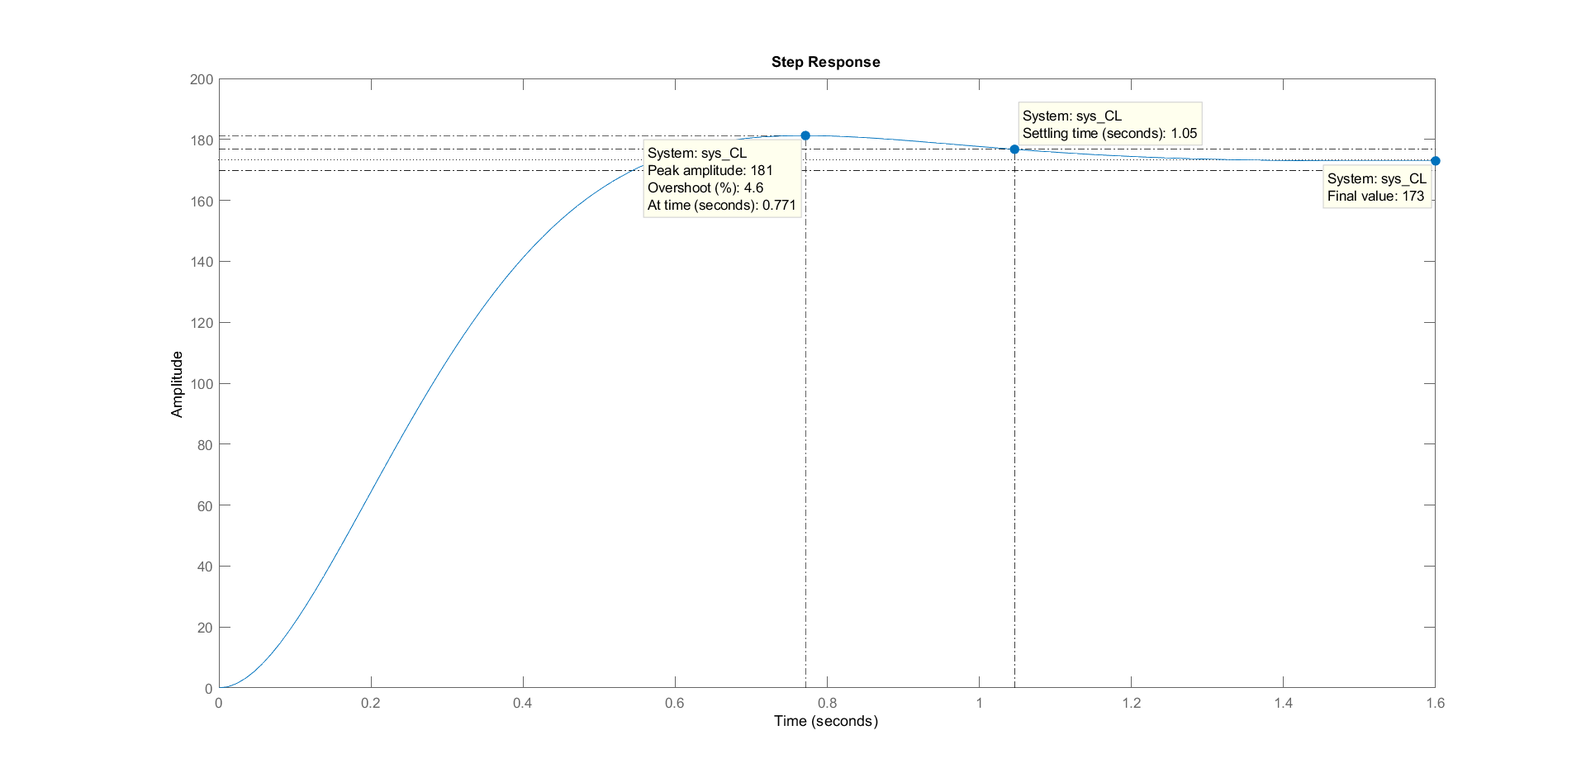
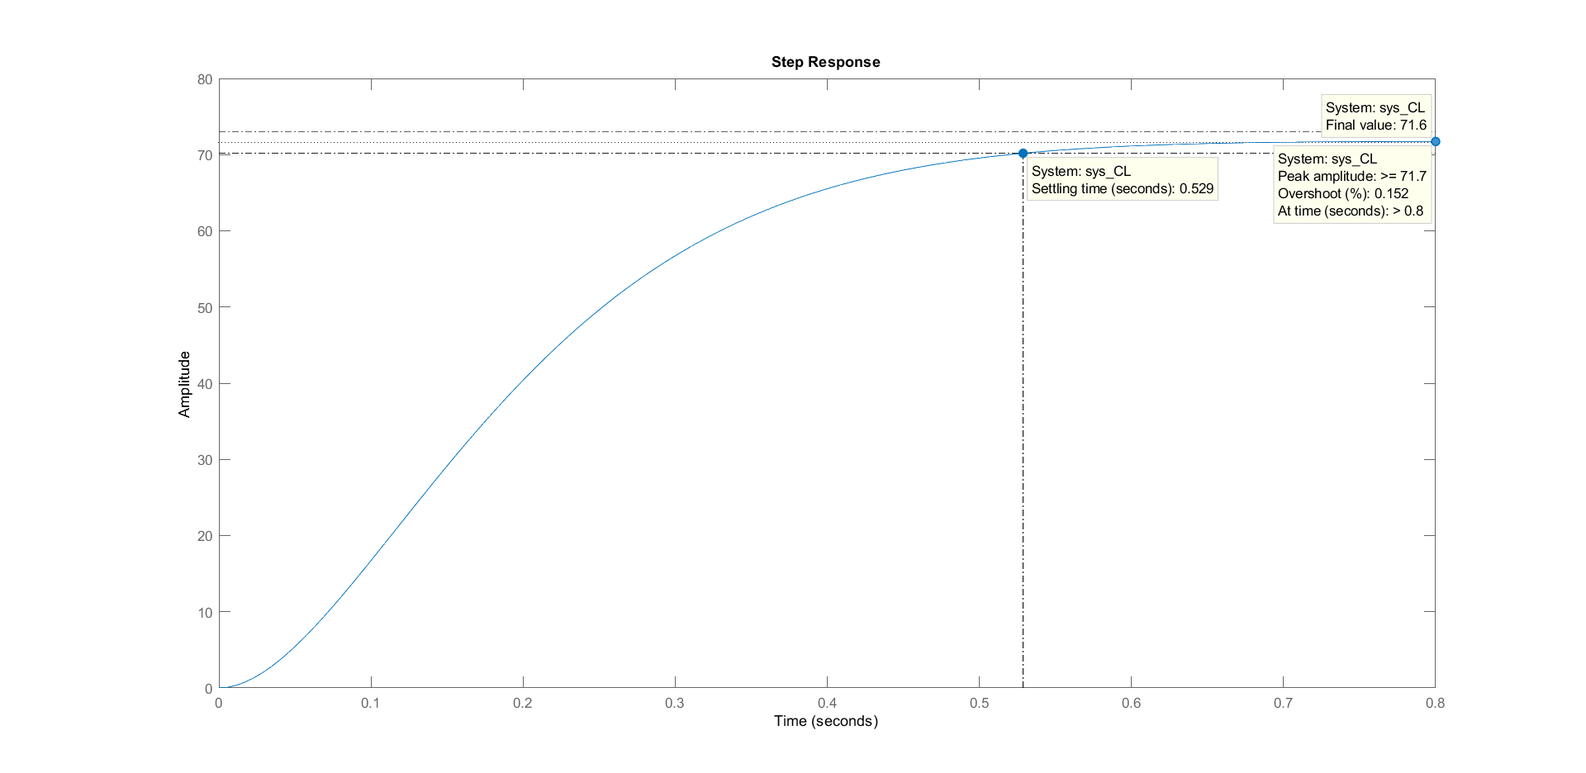
rettelser

diff --git a/Rapport/design.tex b/Rapport/design.tex
@@ -5,7 +5,7 @@
 \subsubsection{Systemidentification}
 
 For at kunne estimere dette system, er det første som skulle laves en overføringsfunktion, for den motor samt vippemekanisme som blev brugt til projektet. Her stødte vi på det første problem med systemet, da det ikke var stabilt. Vi blev derfor nød til at indsætte en form for fjedre, for at sikre at systemet var stabilt i en stationær position. Hertil blev der valgt at tilføje en elastik til hver side af bilen, for at opfylde ønsket om et stabilt stationær system. 
-Herefter blev målingen lavet for at identificere, en overføringsfunktion for motoren. Da dette system, både skal kunne gå mod højre og venstre, blev der påført et firkantsignal. Herunder ses, hvordan responsen \textit{beta} fra motorens tachometer ser ud ved påførelse af firkantsignalet.      
+Herefter blev målingen lavet for at identificere, en overføringsfunktion for motoren. Da dette system, både skal kunne gå mod højre og venstre, blev der påført et firkantsignal. Herunder i \autoref{fig:system_respons} ses, hvordan responsen \textit{beta} fra motorens tachometer ser ud ved påførelse af firkantsignalet.      
 
 
 \begin{figure}[H]
@@ -15,11 +15,15 @@ Herefter blev målingen lavet for at identificere, en overføringsfunktion for m
 	\label{fig:system_respons}
 \end{figure}
 
+\begin{lstlisting}[frame=single]
+data = iddata(Output,Step,'Ts',Ts);
+sys=tfest(data,2,0);%Find overfoeringsfunktion (2p,0z)
+\end{lstlisting}
 
 Overføringsfunktionen bliver genereret ud fra funktionen \textit{tfest()}, som estimerer en overføring ud fra inputtet vs outputtet \textit{beta}. Hertil får vi overføringsfunktionen:
 
 \begin{equation}
-Tf(s) = \frac{188.6}{s^2 + 188.6 s + 358.2}
+sys(s) = \frac{188.6}{s^2 + 188.6 s + 358.2}
 \end{equation}
     
 
@@ -29,8 +33,8 @@ For at opfylde vores krav til dynamikken, forsøges der at placeres dominerede p
 \begin{equation}
 \zeta = \frac{-\ln(OS/100)}{\sqrt{\pi^2+\ln^2(OS/100)}}
 \end{equation} 
-
-Dernæst findes båndbredden wn ud fra $ \zeta $ og valget om settling time (Ts) på følgede måde:
+Da vi egentlig ikke interesseret i overshoot og har et krav på max 5\% overshoot, så Sættes dampingrationen til 0.9 hvilket svarer til et overshoot på 0.15\% (næsten ingenting)
+Dernæst findes båndbredden wn for den karakteristiske ligning ud fra $ \zeta $ og valget om settling time (Ts = 0.5s) på følgede måde:
 
 \begin{equation}
 wn = \frac{4}{\zeta*Ts}
@@ -41,12 +45,18 @@ Til sidst kan den ønskede karakteristiske ligning (Gs) findes og ved:
 G(s) = \frac{wn^2}{s^2+2*\zeta*wn*s+wn^2}
 \end{equation}
 
-Ud fra G(s) findes isoleres polerne, som skal bruges til at opfylde kravene om settling time (Ts) og overshoot (OS). For vores krav ligger polerne  derfor i -4\textpm\ 4.08i. For at fjerne steady state error tilføjes en ekstra pol i 5-10 gange real delen af de dominerende poler. Denne ekstra pol på reel aksen fungere som integrator i kontrolloopet, som korrigerer steady state error'en, men den øger også ordenen af systemet.
+Ud fra G(s) isoleres polerne, som skal bruges til at opfylde kravene om settling time (Ts) og overshoot (OS).
+\begin{lstlisting}[frame=single]
+poles = pole(Gs);
+\end{lstlisting}
+
+
+For vores krav ligger polerne  derfor i -8 \textpm3.8746i. For at fjerne steady state error tilføjes en ekstra pol i 5-10 gange real delen af de dominerende poler. Denne ekstra pol på reel aksen fungere som integrator i kontrolloopet, som korrigerer steady state error'en, men den øger også ordenen af systemet. Polen er valgt 10 gange real delen (5 = minimum for ikke at ændre systemet dynamik betydeligt) af de dominerende poler og bliver derfor -80.
 
 
 \subsubsection{State space model}
 
-I dette projekt bliver systemet controller del repræsenteret på controller state space form, dette gøres for at kunne ændre på state vectorerne, som ændres vha. gainblokke (K), som bliver tilføjet til systemet. For at transformere transferfunktionen til en state space model, laves en state space tranformation i matlab. State space formlen giver følgende state space repræsentation
+I dette projekt bliver systemets repræsenteret på state space form. Dette gøres for at kunne ændre på state vectorerne, som ændres vha. gainblokke (K), som bliver tilbagekoblet til systemet. For at transformere overføringsfunktion for systemet til en state space model, laves en state space tranformation i matlab. State space formlen giver følgende state space repræsentation
 
 \begin{enumerate}
 	
@@ -90,10 +100,12 @@ Som vist tidligere, er der fundet nogle poler, som ønskes realiseret. Derfor in
 
 \begin{lstlisting}[frame=single]
 K = place(A,B,poles);
+
+% Define closed loop system
 AA = A-B*(K);
-sys=ss(AA,B,C,D);
+sys_CL=ss(AA,B,C,D);
 \end{lstlisting}
-Her er AA den nye state matrix som står for tilbagekoblingen med K værdierne for at placere de nye poler i Matlab. Resultatet af den tilbagekoblingen kan ses herunder. 
+Her er AA den nye state matrix som står for tilbagekoblingen med K værdierne for at placere de nye poler i Matlab. Resultatet af den tilbagekoblingen kan ses herunder i \autoref{fig:Kontinuer controller 1}. 
 
 \begin{figure}[H]
 	\centering
@@ -102,10 +114,12 @@ Her er AA den nye state matrix som står for tilbagekoblingen med K værdierne f
 	\label{fig:Kontinuer controller 1}
 \end{figure}
 
-
 Som det kan ses i \autoref{fig:Kontinuer controller 1}, passer dynamikken meget til kravene omkring overhoot og settling time men idet forstærkningen i systemet er for høj, kommer der  betydelig steady state error. Dette kan rettes til ved at tilføje den sidste pol som fjerner fejlen. Men først skal A og B matricen udvides så de kan indeholde den extra state, Dernæst skal alle tre poler placeres igen for at få tre nye K værdier, hvor den sidste er Ke, som ganges på integration polen i loopet. Dette kan ses herunder
 
 \begin{lstlisting}[frame=single]
+p3=10*real(poles(1)); % desired location for 3rd pole
+pp=[poles; p3];
+
 % Find feedback gains for the desired poles
 A_new=[A [0;0];-C 0]; % A matrix after adding an extra state
 B_new=[B;0]; % B matrix after adding an extra stat
@@ -121,7 +135,7 @@ C_CL=[C 0];
 sys_CL=ss(A_CL,B_CL,C_CL,D);
 \end{lstlisting}
 
-Her er A\_CL den nye state matrix som står for den udvidede tilbagekoblingen med alle K værdierne for at placere polerne som ønsket i Matlab. Resultatet af den udvidede tilbagekoblingen kan ses herunder. 
+Her er A\_CL den nye state matrix som står for den udvidet tilbagekoblingen med alle K værdierne for at placere polerne som ønsket i Matlab. Resultatet af den udvidede tilbagekoblingen kan ses herunder i \autoref{fig:Kontinuer controller 2}. 
 
 \begin{figure}[H]
 	\centering
@@ -135,14 +149,15 @@ Som det kan ses i \autoref{fig:Kontinuer controller 2}, passer responsen nu til 
 
 
 
-\subsection{Observer design}
+\subsubsection{Observer design}
+\label{sec:Observer design}
 Da systemet i praksis foregår på en LEGO motorblok, kan vi ikke hente states matrixen direkte, da x1 og x2 er en del  af systemet, ift ligningen for state space controller repræsentationen: 
 \begin{gather}
 \dot{x}=Ax+Bu \\
 y=Cx
 \end{gather}
 Derfor indsættes yderligere en blok i systemet, for at kunne observere ind og output, og på baggrund af dem, og den beregnede state matrix, beregnes en estimeret xhat, som skal bruges til tilbagekoblingen, som erstatning for states matrixen \\
-Observer formlen hedder:
+Observer ligningen hedder:
 
 
 \begin{gather}
@@ -150,14 +165,10 @@ Observer formlen hedder:
 \hat{y}=C\hat{x}
 \end{gather}
 
-Vha af mellemregninger, får vi formlen: 
-\begin{gather}
-\dot{\hat{x}}=(A+BK-LC)\hat{x}+Ly \\
-u=K\hat{x}
-\end{gather}
 
-Som er den formlen vi bruger til at lave vores observer.\\
-Først skal vi vælge observatørens forstærkning $ L $. Da vi ønsker at observerens dynamik skal være meget hurtigere end selve systemet, skal vi placere polerne mindst fem gange længere til venstre end systemets dominerende poler. Vi kan designe observerens forstærkning med følgende kommando uden at transformere vores state space respræsentation til observer canonical form
+Det er den formel vi bruger til at lave vores observer.\\
+
+Først skal vi vælge observatørens forstærkningsmatrice $ L $. Da vi ønsker at observerens dynamik skal være meget hurtigere end selve systemet, skal vi placere polerne mindst fem gange længere til venstre end systemets dominerende poler. Vi kan designe observerens forstærkning med følgende kommando uden at transformere vores state space respræsentation til observer canonical form
 
 \begin{lstlisting}[frame=single]
 %Valg af poler er polerne ganget med 5
@@ -166,9 +177,132 @@ poles_L = poles*5;
 L = place(A', C', poles_L)'; 
 \end{lstlisting}
 
-Derfor kan observatøren nu implementeres i Simulink og bruges til at hente state matricen ud fra outputtet fra gyroskopet. Dette beskrives senere under "Simulation"
+Derfor kan observatøren nu implementeres i Simulink og bruges til at hente et gæt på state matricen ud fra outputtet y (rho) fra gyroskopet og inputtet u til motor blokken. Denne implementering følger observer ligningen fra før og kan ses i diagrammet herunder i \autoref{fig:Simulink_observer_continues}
+
+\begin{figure}[H]
+	\centering
+	\includegraphics[width = 1\textwidth]{figur/Simulink_observer_continues}
+	\caption{Kontinuer observer}
+	\label{fig:Simulink_observer_continues}
+\end{figure}
+
 
 \subsection{Diskret controller design}
-For at kunne implementere systemet på en microcontroller - som på LEGO EV3, kan systemet med fordel transformeres til en diskret state space model. Dette kommer af at reguleringen skal foregå på et digitalt system, som sampler med en bestemt frekvens. Både overføringsfunktionen og state space repræsentationen bliver transformeret til diskrete værdier, det samme gøres ved vores poler, hvormed K værdierne ændres til de passende værdier. Alt dette gøres igennem matlab, hvor funktionen c2d bliver brugt.
+\subsubsection{Systemidentification}
+For at kunne implementere systemet på en microcontroller - som på LEGO EV3, kan systemet med fordel transformeres til en diskret state space model. Dette kommer af at reguleringen skal foregå på et digitalt system, som sampler med en bestemt frekvens. Både overføringsfunktionen og state space repræsentationen bliver transformeret til diskrete værdier, det samme gøres ved vores poler, hvormed K værdierne ændres til de passende værdier. Alt dette gøres igennem matlab, hvor funktionen c2d() bliver brugt. Fremgangs måden  er ellers den samme som ved den Kontinuer controller. 
+
+\begin{lstlisting}[frame=single]
+Ts = 0.01;
+sysD=c2d(sys,Ts,'zoh'); %samplingstiden er 0.01s
+\end{lstlisting}
+
+Først overføres den kontinuere overføringsfunktion fra før til det diskrete domæne ved hjælp af c2d() med samplingstiden 0.01s og "zoh" metoden til følgende resultat:
+
+\begin{equation}
+sysD(z) = \frac{0.008675 z^{-1} + + 0.007989 z^{-2}}{1 - 1.75 z^{-1} + 0.7813 z^{-2}}
+\end{equation}
+
+\subsubsection{Pol placeringskontrol}
+Idet den karakteristiske ligning (Gs) som bestemmer systemet dynamik allerede er bestemt i det kontinuere domæne  transformeres denne og så til det diskrete domæne G(z) med c2d() med samplingstiden 0.01s og denne gang "tustin" metoden for at få så præcist match i frekvensdomænet mellem den kontinuere og diskrete model af karakteristiske ligning. 
+
+\begin{lstlisting}[frame=single]
+Gz = c2d(Gs,Ts,'tustin');
+poles_z = pole(Gz);
+\end{lstlisting}
+
+Ud fra G(z) isoleres polerne, som skal bruges til at opfylde kravene om settling time (Ts) og overshoot (OS). For vores krav ligger polerne  derfor i 0.9224 \textpm0.0358i, som begge ligger inden for enheds cirklen og derfor er stabile.  
+Desværre stødte vi ind i problemer med at fjerne steady state error i det diskrete domæne, men det burde kunne fjerned ved at z-transformere den pol som ligger i -80 fra den kontinuere model til z-domænet. Dette problem er dog ikke blevet løst og derfor ses der bort fra steady state error i den diskrete model.
+
+\subsubsection{State space model}
+
+ For igen at kunne ændre på state vectorerne i den diskete model, som også ændres vha. gainblokke (Kd) tilbagekoblet til systemet, så skal den diskrete overføringsfunktio transformeres til en state space model. State space formlen giver følgende state space repræsentation for den  diskrete model.
+
+\begin{enumerate}
+	
+	\item
+	$
+	Ad = 
+	\begin{bmatrix}
+	
+	1.7497  & -0.7813\\
+	1.0000   &      0
+	\end{bmatrix}
+	$
+	\item
+	$
+	Bd = 
+	\begin{bmatrix}
+	
+	1\\
+	0
+	\end{bmatrix}
+	$    
+	
+	\item 
+	$
+	Cd = 
+	\begin{bmatrix}
+	
+	0.0087  &  0.0080
+	\end{bmatrix}
+	$    
+	\item
+	$
+	Dd = 
+	\begin{bmatrix}
+	
+	0  
+	\end{bmatrix}
+	$  
+\end{enumerate}      
+Polerne, som ønskes realiseret, virkeliggøre ved indsættes en Kd matrix, som skal placeres, i tilbagekoblingen for at opnå de ønskede poler i close-loopet. Her forsøges blot de to konjugerede poler realiseret for at se om kravene til dynamikken er opfyldt, det gøres således:
+
+\begin{lstlisting}[frame=single]
+Kd = place(Ad,Bd,poles_z);
+
+% Define closed loop system
+AAd = Ad-Bd*(Kd);
+sysD_CL=ss(AAd,Bd,Cd,Dd,Ts);
+\end{lstlisting}
+Her er AAd den nye state matrix som står for tilbagekoblingen med Kd værdierne for at placere de nye poler i Matlab. Resultatet af den tilbagekoblingen kan ses herunder i \autoref{fig:Diskret controller 1}. 
+
+\begin{figure}[H]
+	\centering
+	\includegraphics[width = 1\textwidth]{figur/Step_diskret_1}
+	\caption{Step respons (StepAmplitude = 30) af diskret controller uden steady state error korrektion}
+	\label{fig:Diskret controller 1}
+\end{figure}
+
+
+
+
+Som det kan ses i \autoref{fig:Diskret controller 1}, passer dynamikken meget til kravene omkring overhoot og settling time. Forstærkningen i systemet er dog for høj hvilket resulterer i betydelig steady state error. Dette kan rettes til som nævnt tidligere ved at tilføje den sidste pol som fjerner fejlen. Dette er dog ikke gjort ved den diskrete controller model. 
+
+\subsubsection{Observer design}
+Observer delen er den samme som i den kontinuere controller model og følger observer ligningen:
+\begin{gather}
+\dot{\hat{x}}=Ad\hat{x}+Bdu+Ld(y-\hat{y}) \\
+\hat{y}=Cd\hat{x}
+\end{gather}
+
+Først skal vi vælge observatørens forstærkningsmatrice $ Ld $. Da vi allerede har fundet observerens dynamik og tilhørende poler i den kontinuere controller så kan vi blot transformere disse poler til det diskrete domæne med c2d(). Vi kan designe observerens forstærkning med følgende kommando uden at transformere vores state space respræsentation til observer canonical form
+\begin{lstlisting}[frame=single]
+%valg af Ld poler 
+GLs = (1/(s-poles_L(1)))*(1/(s-poles_L(2)));
+GLz = c2d(GLs,Ts,'tustin');
+poles_Ld =pole(GLz);
+%beregning af Ld
+Ld = place(Ad', Cd', poles_Ld)';  
+\end{lstlisting}
+
+Derfor kan observatøren nu implementeres i Simulink og bruges til at hente et gæt på state matricen ud fra outputtet y (rho) fra gyroskopet og inputtet u til motor blokken. Denne implementering følger observer ligningen fra før og kan ses i diagrammet herunder i \autoref{fig:Simulink_observer_diskret}
+Den eneste ændring i forhold til den kontinuere observer er at integration blokken nu er udskiftets med en unit delay blok for at realisere den samplede state matrix   
+
+\begin{figure}[H]
+	\centering
+	\includegraphics[width = 1\textwidth]{figur/Simulink_observer_diskret}
+	\caption{Diskret observer}
+	\label{fig:Simulink_observer_diskret}
+\end{figure}
 
 

diff --git a/Rapport/simulation.tex b/Rapport/simulation.tex
@@ -3,38 +3,41 @@ For at teste den kontinuere controller's respons modelleres systemet ud fra stat
 
 \begin{figure}[H]
 	\centering
-	\includegraphics[width = 0.9\textwidth]{figur/Simulink_blokdiagram_1}
+	\includegraphics[width = 1\textwidth]{figur/Simulink_blokdiagram_1}
 	\caption{Blok diagram for den kontinuere controller uden observer}
 	\label{fig:Simulink_blokdiagram_1}
 \end{figure}
 
 State matricen hentes direkte fra modellen ligesom i Matlab. Delay blokken med 2 unit delay skyldes at gerne vi simulere at gyroskopet på udgangen bruger 1 delay på at sample og og 1 delay på at integrere den samplede værdi.
-Ved at sende et step med amplituden 30 ind som reference signal forventer vi derfor at kunne måle en værdi på 30 på outputtet efter cirka 1 sekund efter steppet. Dette kan ses i scopet 
+Ved at sende et step med amplituden 30 ind som reference signal forventer vi derfor at kunne måle en værdi på 30 på outputtet efter cirka halvt sekund efter steppet. Dette kan ses i scopet i \autoref{fig:Simulink_scope_1}.
 
 \begin{figure}[H]
 	\centering
 	\includegraphics[width = 0.8\textwidth]{figur/Simulink_scope_1}
-	\caption{Step respons for den kontinuere controller uden observer}
+	\caption{Step respons (Amplitude = 30) for den kontinuere controller uden observer}
 	\label{fig:Simulink_scope_1}
 \end{figure}
 
-Resultatet passer med forventningerne med settling time, overshoot og ingen steady state error. Men som nævnt tidligere kan man ikke hente disse states direkte ud fra systemet, så derfor tilføjes en observer til blokdiagrammet i \autoref{fig:Simulink_blokdiagram_1} så state matrixen kan hentes fra outputtet i stedet. Dette kan ses herunder.
+Resultatet i \autoref{fig:Simulink_scope_1} passer med forventningerne med settling time og ingen steady state error. Dog ses der et lille overshoot på cirka 1.5\%, hvilket tyder på at systemet er blevet lidt mindre stabilt pga delay blokken med 2 unit delay. Dette har dog minimal betydning, da kravet om max 5\% overhoot stadig overholdes.
+
+Men som nævnt tidligere kan man ikke hente state matricen direkte ud fra systemet, så derfor tilføjes en observer til blokdiagrammet i \autoref{fig:Simulink_blokdiagram_1} så state matrixen kan hentes fra outputtet i stedet. Dette kan ses herunder i \autoref{fig:Simulink_blokdiagram_2}.
 
 \begin{figure}[H]
 	\centering
-	\includegraphics[width = 0.9\textwidth]{figur/Simulink_blokdiagram_2}
+	\includegraphics[width = 1\textwidth]{figur/Simulink_blokdiagram_2}
 	\caption{Blok diagram for den kontinuere controller med observer}
 	\label{fig:Simulink_blokdiagram_2}
 \end{figure}
-I \autoref{fig:Simulink_blokdiagram_2} ses det observeren har outputtet fra gyroskoppet som input og spytter 2 states ud som føres tilbage med hver deres forstærkning K. Observeren er implementeret ud fra tidligere design og kan ses herunder
-
+I \autoref{fig:Simulink_blokdiagram_2} ses det observeren har outputtet fra gyroskoppet som input sammen med inputtet til motorblokken (state space repræsentation) og spytter states matricen ud som føres tilbage med forstærkningensmatricen K . Observeren er implementeret ud fra tidligere design og kan ses i \autoref{fig:Simulink_observer_continues}. Ved at sende et step med amplituden 30 ind som forstyrrelse signal på outputtet (forstyrrelse fra overfladens hælding) forventer vi derfor at kunne måle en værdi på 0 på outputtet efter cirka halvt sekund efter steppet, hvis referencesignalet sættes til 0. Dette kan ses i scopet scopet i \autoref{fig:Simulink_scope_2}.
+ 
 \begin{figure}[H]
 	\centering
-	\includegraphics[width = 0.7\textwidth]{figur/Simulink_observer_continues}
-	\caption{Kontinuer observer}
-	\label{fig:Simulink_observer_continues}
+	\includegraphics[width = 0.8\textwidth]{figur/Simulink_scope_2}
+	\caption{Step respons for den kontinuere controller med observer påsat forstyrrelse på outputtet (Amplitude = 30)}
+	\label{fig:Simulink_scope_2}
 \end{figure}
 
-Ved blokdiagrammet i \autoref{fig:Simulink_blokdiagram_1} kan 
+Resultatet i \autoref{fig:Simulink_scope_2} passer med forventningerne og viser at systemet regulere tilbage til vandret efter cirka et halvt sekund hvis det bliver udsat for en forstyrrelse. Dog ses det at, reguleringen ikke sker helt jævnt, hvilket formentlig skyldes at observeren påvirker systemet med sine poler og ikke gætter 100\% rigtig på state matricen hvormed resultatet påvirkes. Dette er dog acceptabelt idet systemet stadig finder tilbage på plads uden alt for meget oscillation. 
+
 
 

diff --git a/Rapport/test_lego.tex b/Rapport/test_lego.tex
@@ -1,7 +1,8 @@
 \section{Test på LEGO bil}
 
-Gennem projektarbejdet, har gruppen testet den endelige løsning på lego-bilen. Men da simuleringen af det digitale system ikke fungerede, er der kun testet med kontinuere systemblokke. Dette har dog den ulempe, at vi bliver nød til, at samle på systemet, og derfor kommer systemet ikke til at være 100\% perfekt, da vi ikke kan sample uendeligt. Dog burde vores realisering, ligne vores simulering, hvor vi også har indført et integrale led digitalt (altså samplet). \\
-Under realiseringen, opdagede vi dog endnu en fejlkilde, som gjorde at systemet opførte sig anderledes. Dette kom af den friktion som systemet har. Denne friktion er nemlig ikke liniær, hvilket betyder, at modstanden falder, når spændingen til motoren når en bestemt størrelse. Derfor får systemet et kraftigt udsving, da den overkompentserer for en fejl. Projektet har derfor et realiseringproblem, og vil skulle bruge en meget hurtig regulerings sløjfe, for at kunne korrigere for fejlen. Dette er nok ikke muligt i praksis, hvorfor en bedre løsning ville være at indføre 2 systemer. Her ville det første system, have control over motoren, når friktionen var belastende, og et system, som tager over når friktionen falder kraftig i belastning. På figur \ref{fig:lego_bil} vises et billede af realiseringen, hvor aksen med hjulene står med en skæv vinkel, mens at aksen med kroppen af bilen, står vandret. 
+Gennem projektarbejdet, har gruppen testet den endelige løsning på lego-bilen. Men da simuleringen af det digitale system ikke fungerede, er der kun testet med den kontinuere kontroller model med diskret integration for at systemet kan følge med. Dette har dog den ulempe, at vi bliver nød til, at sample på systemet, og derfor kommer systemet ikke til at være 100\% perfekt, da vi ikke kan sample uendeligt. Dog burde vores realisering, ligne vores simulering, hvor vi også har indført diskret integration. 
+
+Under realiseringen, opdagede vi dog endnu en fejlkilde, som gjorde at systemet opførte sig anderledes. Dette kom af den friktion som systemet har. Denne friktion er nemlig ikke liniær, hvilket betyder, at modstanden falder, når spændingen til motoren når en bestemt størrelse. Derfor får systemet et kraftigt udsving, da den overkompentserer for en fejl. Projektet har derfor et realiserings problem, og vil skulle bruge en meget hurtig regulerings sløjfe, for at kunne korrigere for fejlen. Dette er nok ikke muligt i praksis, hvorfor en bedre løsning ville være at indføre 2 systemer. Her ville det første system, have control over motoren, når friktionen var belastende, og et system, som tager over når friktionen falder kraftig i belastning. På figur \ref{fig:lego_bil} vises et billede af realiseringen, hvor aksen med hjulene står med en skæv vinkel, mens at aksen med kroppen af bilen, står vandret. 
 
 \begin{figure}[H]
 	\centering

diff --git a/Rapport/krav.tex b/Rapport/krav.tex
@@ -4,14 +4,14 @@ I dette afsnit beskrives kravene til hvilken funktionalitet systemet har. Der er
 \begin{itemize}
 	\item Systemet kan regulere en horisontal vinkel på op til ±30 grader tilbage til vandret i ”overdelen” ±1 grad
 	\item Overshoot max 5\%
-	\item Settlingtime 1 sekund 
+	\item Settlingtime 0.5 sekund 
 	\item Stationær fejl max 10\%  
 	
 \end{itemize}
 
 
 
-Herunder vises et blokdiagram, som viser en beskrivelse af systemets (fysiske) blokke, som beskriver opbygningen af systemet på Lego bilens styringsenhed. 
+Herunder i \autoref{fig:Blokdiagram} vises et blokdiagram, som viser en beskrivelse af systemets (fysiske) blokke, som beskriver opbygningen af systemet på Lego bilens styringsenhed. 
 
 
 \begin{figure}[H]
@@ -21,4 +21,4 @@ Herunder vises et blokdiagram, som viser en beskrivelse af systemets (fysiske) b
 	\label{fig:Blokdiagram}
 \end{figure}
 
-\textit{beta} er motorens vinkel,\textit{ alpha} er vinkel forstyrrelsen fra terrænets hældning. \textit{rho} er vinkelen på selve overdelen af Lego bilen. Det er denne vinkel \textit{rho} som gerne forsøges at reguleres til 0 grader eller vandret. Outputtet fra gyroskopet er en vinkelhastighed som igennem integration laves om til en vinkel ændring i forhold til start vinklen (helst vandret). 
+\textit{beta} er motorens vinkel,\textit{ alpha} er vinkel forstyrrelsen fra terrænets hældning. \textit{rho} er vinkelen på selve overdelen af Lego bilen. Det er denne vinkel \textit{rho} som gerne forsøges at reguleres til 0 grader eller vandret. Outputtet fra gyroskopet er en vinkelhastighed som igennem integration laves om til en vinkel ændring i forhold til start vinklen (helst vandret). Controlleren er tænkt som en pol placerings regulator, men som i første omgang ikke er adaptiv ved brug parameter estimation af modellen (MIAC). 

diff --git a/Rapport/adaptiv.tex b/Rapport/adaptiv.tex
@@ -30,7 +30,7 @@ Til dette projekt, skulle der have været lavet adaptiv regulering, og derigenne
 	\label{fig:MIAC}
 \end{figure}
 
-\subsection{RLS}
+\subsubsection{RLS}
 Til MIAC skal derfor benyttes en regulerings mekanisme, og derigennem blev der valgt at bruge RLS algoritmen, da gruppen havde kendskab til den gennem undervisningen og den er nem at tilgå. Her skulle systemets regulerings mekanisme, laves ud fra online RLS, da systemet skulle kunne køre reel tid og derfor ikke havde et endeligt udgangssignal. 
 
 \subsection{Implementering}

diff --git a/Rapport/journal_pre.tex b/Rapport/journal_pre.tex
@@ -46,7 +46,7 @@
 	stringstyle=\color{mylilas},
 	commentstyle=\color{mygreen},%
 	showstringspaces=false,%without this there will be a symbol in the places where there is a space
-	numbers=left,%
+	numbers=none,%
 	numberstyle={\tiny \color{black}},% size of the numbers
 	numbersep=9pt, % this defines how far the numbers are from the text
 	emph=[1]{for,end,break},emphstyle=[1]\color{red}, %some words to emphasise
